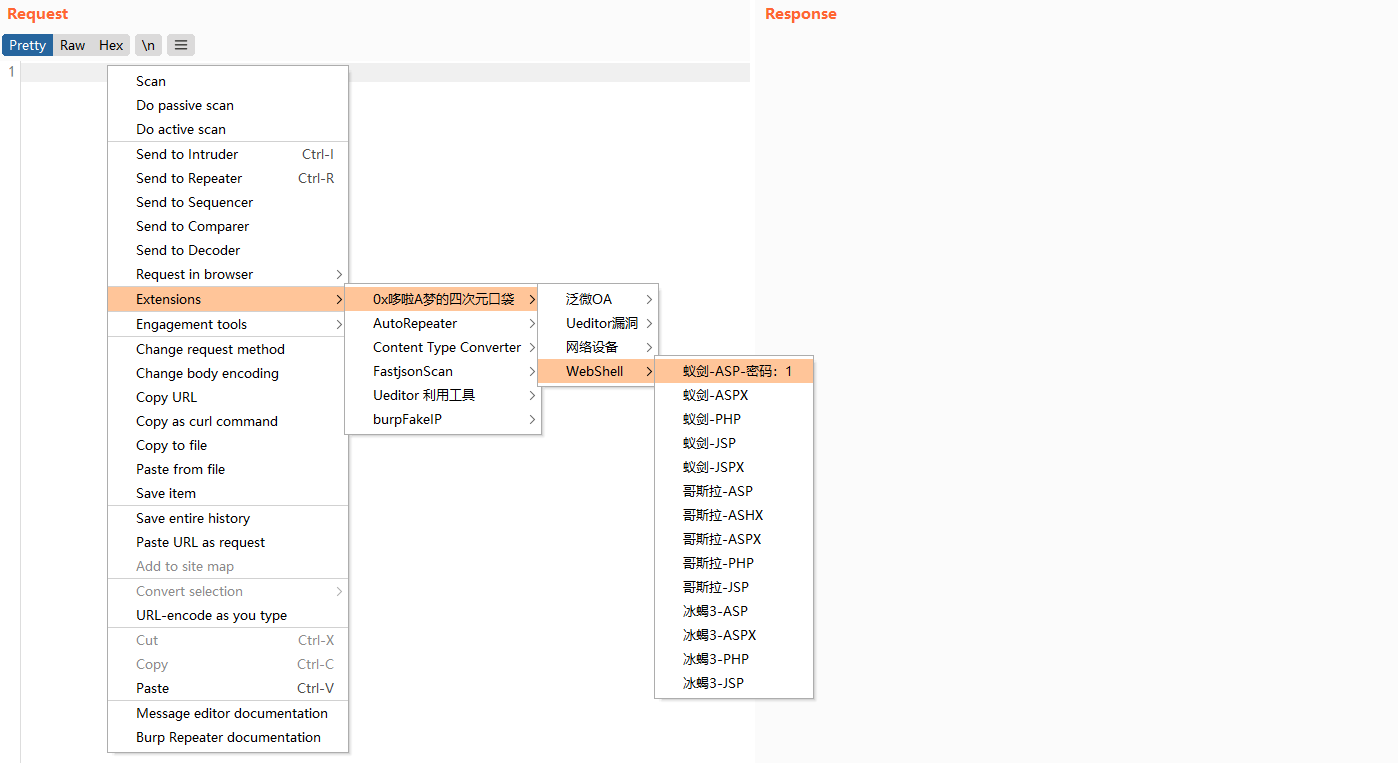
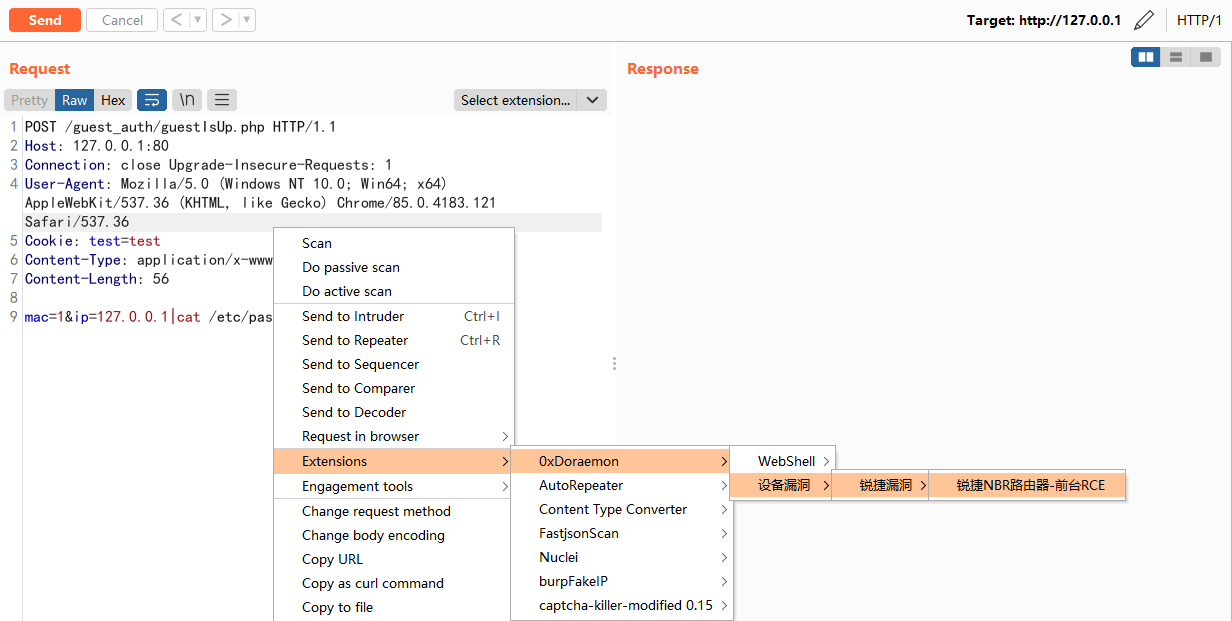
v3

diff --git a/README.md b/README.md
@@ -1,18 +1,16 @@
 ## 哆啦A梦的四次元口袋
 
-
-
 ### 前言
 
 1、在渗透测试或挖 SRC 的时候每次都需要在笔记中复制一些 Payload 或 Webshell 内容觉得太麻烦了，所以打算 **抄一个** Burpsuite 插件，直接在 Burpsuite 中插入内容就简单多了。
 
-2、在复现一些Http 请求的漏洞，每次都需要在笔记复制exp或写个简单的 python 脚本觉得太麻烦了，如果在 Burpsuite 中直接修改请求包就简单多了，所以就命名该Burpsuite 插件为 **哆啦A梦的四次元口袋** 吧。
+2、在复现一些Http 请求的漏洞，每次都需要在笔记复制exp或写个简单的 python 脚本觉得太麻烦了，如果在 Burpsuite 中直接修改请求包就简单多了。
 
 
 
 ### 使用
 
-1、加载插件会在 Burpsuite 目录下新建了一个目录和二个文件
+1、加载插件会在 **Burpsuite 目录下新建了一个目录和二个文件**
 
 2、**使用 sublime text 来修改 exp.yaml 和 payload.yaml** （**yaml 语法**）
 
@@ -21,6 +19,31 @@ DAM_Config:
 |_exp.yaml
 |_payload.yaml
 ```
+
+
+
+#### payload.yaml 文件：演示
+
+该文件是把 **Payload 插入到 数据包 中** （在文件上传的时候快速插入webshell，不用再生成或者翻文件来复制粘贴了）
+
+```
+<?php phpinfo();?>
+```
+
+需要把 payload  Base64 编码
+
+```
+PD9waHAgcGhwaW5mbygpOz8+
+```
+
+```
+WebShell:
+  蚁剑:
+    PHP:
+      PD9waHAgcGhwaW5mbygpOz8+
+```
+
+![2](./images/2.png)
 
 
 
@@ -51,36 +74,11 @@ UE9TVCAvZ3Vlc3RfYXV0aC9ndWVzdElzVXAucGhwIEhUVFAvMS4xIApIb3N0OiAlcwpDb25uZWN0aW9u
 编写 exp.yaml（**yaml 语法**）
 
 ```
-锐捷漏洞:
-  锐捷NBR路由器-前台RCE:
[1 lines of base64/hex data omitted]
+设备漏洞:
+  锐捷漏洞:
+    锐捷NBR路由器-前台RCE:
[1 lines of base64/hex data omitted]
 ```
-
-
-
-#### payload.yaml 文件
-
-该文件是把 **Payload 插入到数据包中**
-
-```
-<?php phpinfo();?>
-```
-
-需要把 payload  Base64 编码
-
-```
-PD9waHAgcGhwaW5mbygpOz8+
-```
-
-```
-WebShell:
-  phpinfo:
-    PD9waHAgcGhwaW5mbygpOz8+
-```
-
-在文件上传的时候快速插入webshell，更多玩法自己挖掘...
-
-![1](./images/2.png)
 
 ![1](./images/1.png)
 
